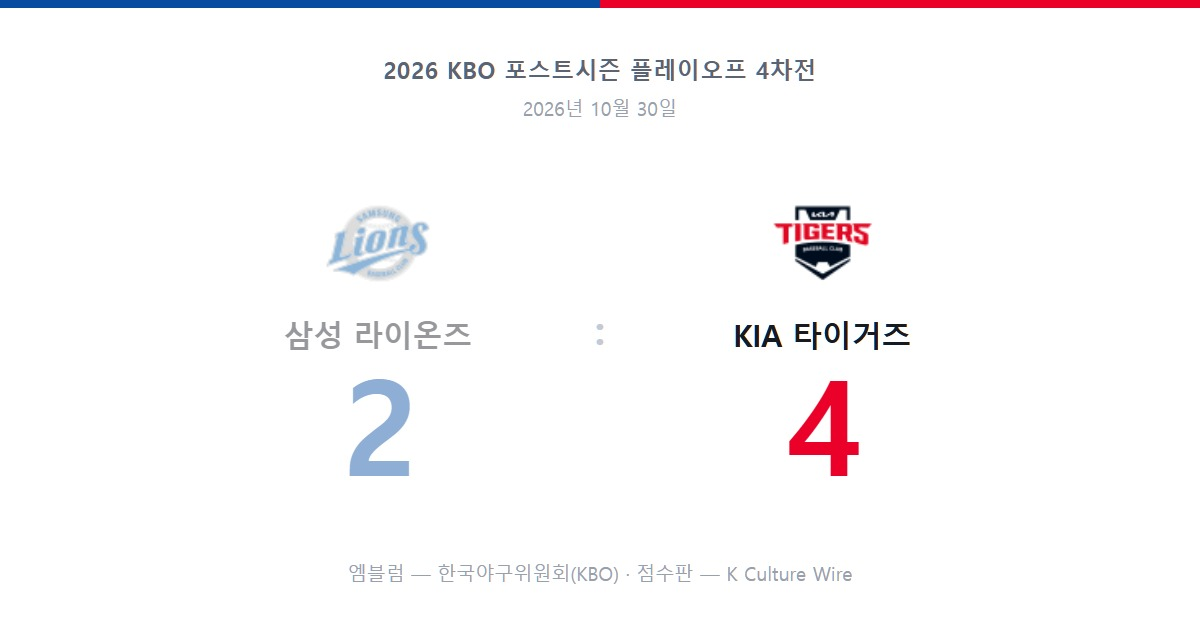
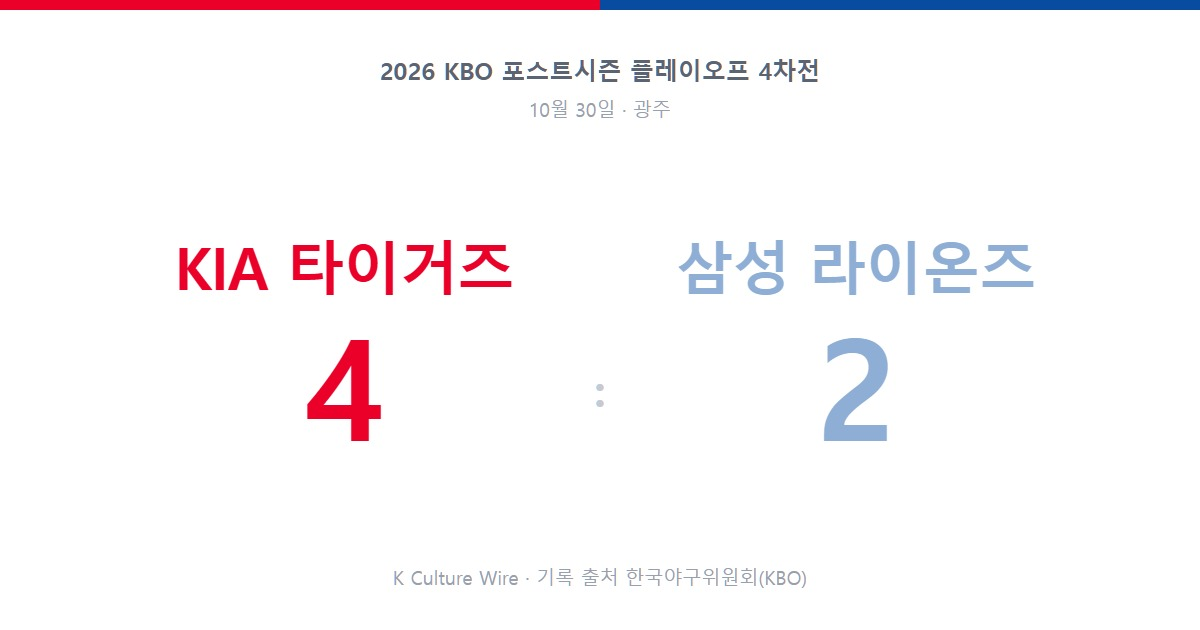
케이리뷰 KIA-삼성 PO4 — 엠블럼을 빼고 팀 이름 글자로 그림을 다시 만든다 (사장님 「네가 팀이름을 이미지로 만들어」)
Claude-Session: https://claude.ai/code/session_01HoNYEEmb7tLMvA8hcd5d4r

diff --git a/content/kcw-reviews/kbo-po4-kia-samsung.md b/content/kcw-reviews/kbo-po4-kia-samsung.md
@@ -14,7 +14,7 @@ subject:
   주체: "한국야구위원회(KBO)"
 image:
   src: "/review/kbo-po4-kia-samsung.jpg"
-  대체텍스트: "KIA 타이거즈 4, 삼성 라이온즈 2. 두 구단 엠블럼과 점수를 담은 점수판"
+  대체텍스트: "KIA 타이거즈 4, 삼성 라이온즈 2. 두 팀 이름을 구단 색 글자로 적고 점수를 크게 담은 그림"
   캡션: "2026 KBO 포스트시즌 플레이오프 4차전. KIA 타이거즈가 삼성 라이온즈를 4대2로 이겼다."
   제공처: "K Culture Wire"
   제공처유형: own
